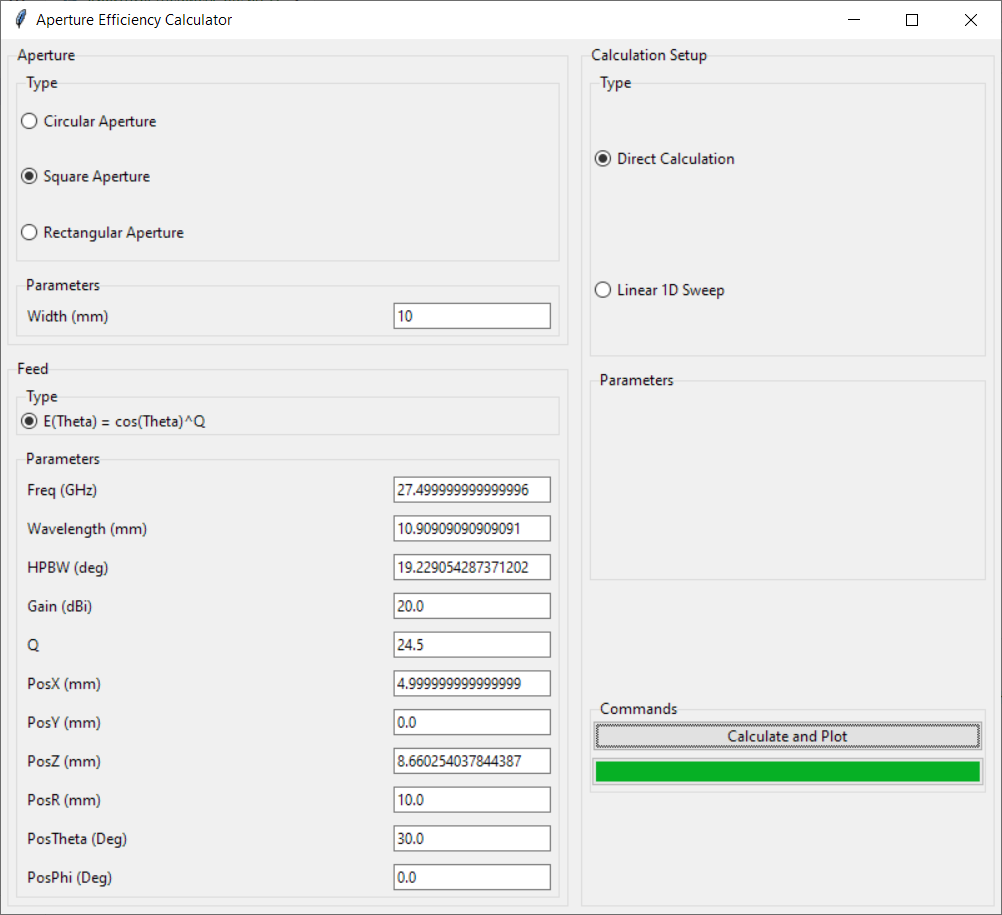
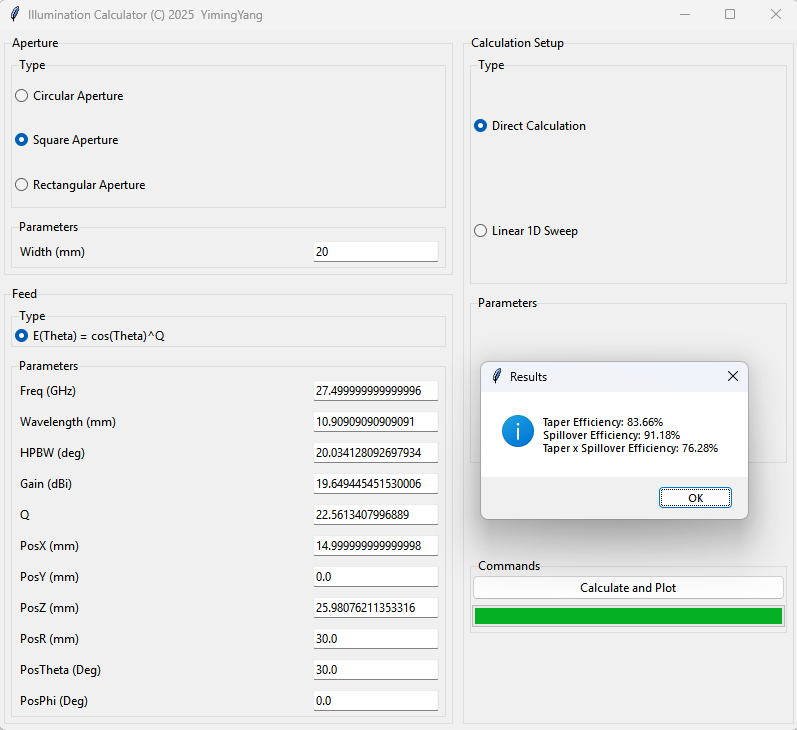
Updated Annotation, Copyright

diff --git a/IlluminationCalc.py b/IlluminationCalc.py
@@ -1,3 +1,20 @@
+"""
+Copyright (C) 2025  YimingYang
+
+This program is free software: you can redistribute it and/or modify
+it under the terms of the GNU General Public License as published by
+the Free Software Foundation, either version 3 of the License, or
+(at your option) any later version.
+
+This program is distributed in the hope that it will be useful,
+but WITHOUT ANY WARRANTY; without even the implied warranty of
+MERCHANTABILITY or FITNESS FOR A PARTICULAR PURPOSE.  See the
+GNU General Public License for more details.
+
+You should have received a copy of the GNU General Public License
+along with this program.  If not, see <https://www.gnu.org/licenses/>.
+"""
+
 import tkinter as tk
 from tkinter import ttk
 import numpy as np
@@ -8,11 +25,10 @@ from LibCalc import CalculationType, Calculation
 from LibTkExtension import LabelEntryPair, LabelPicklistPair, TracePlotWindow
 
 
-
 # --------- BEGIN Create the Main Window ---------
 # Create the main window
 root = tk.Tk()
-root.title("Aperture Efficiency Calculator")
+root.title("Illumination Calculator (C) 2025  YimingYang")
 root.geometry("800x700")
 
 # Create the main frame
